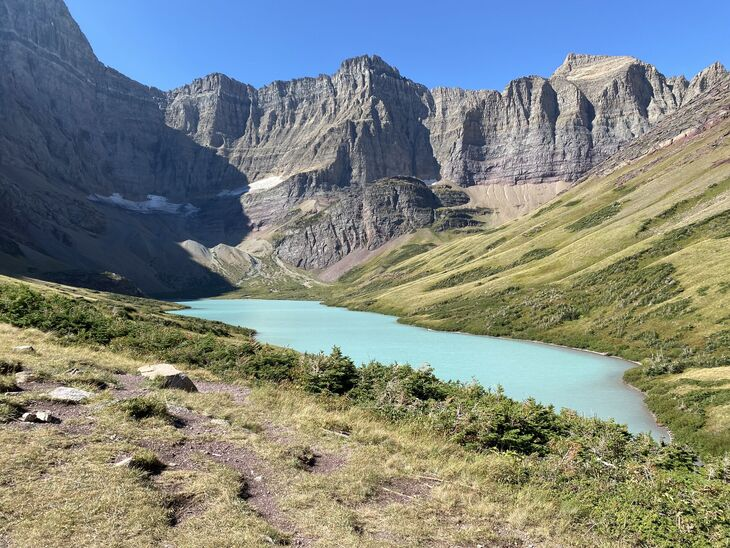
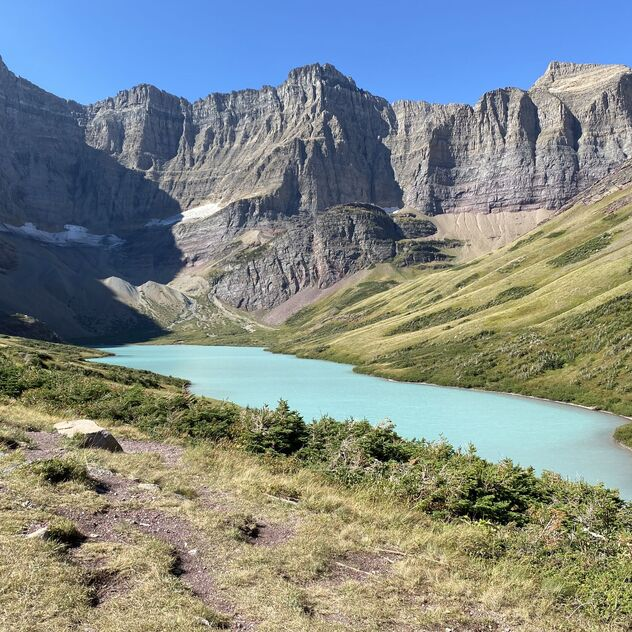
changed albums to square

diff --git a/albums/san_diego/index.html b/albums/san_diego/index.html
@@ -42,7 +42,7 @@
 		<h3>Date me</h3>
 		<p></p>
 	</header>
-	<p><a href="./raw/IMG_5700.jpg"><img src="IMG_5700.jpg" loading="lazy" class="landscape"></a></p>
+	<p><a href="./raw/IMG_5700.jpg"><img src="IMG_5700.jpg" loading="lazy" class="portrait"></a></p>
 
   <footer>
     <a href="../../albums.html">← Back to Albums</a><br>

diff --git a/albums.html b/albums.html
@@ -68,8 +68,8 @@
 
   <div class="album">
     <a class="album-link" href="albums/santa_barbara/index.html">
-      <img src="thumbnails/santa_barbara.JPG" alt="Santa Barbara">
-      <p>San Diego</p>
+      <img src="thumbnails/santa_barbara_thumb.jpg" alt="Santa Barbara">
+      <p>Santa Barbara</p>
     </a>
   </div>
 </div>

diff --git a/commands.md b/commands.md
@@ -1,0 +1,3 @@
+# Magick commands for compression 
+## Thumbnails
+magick "./thumbnails/santa_barbara.JPG" -gravity Center -extent 1:1 +repage -resize "400000@" -quality "80%" "./thumbnails/santa_barbara_thumb.jpg"
